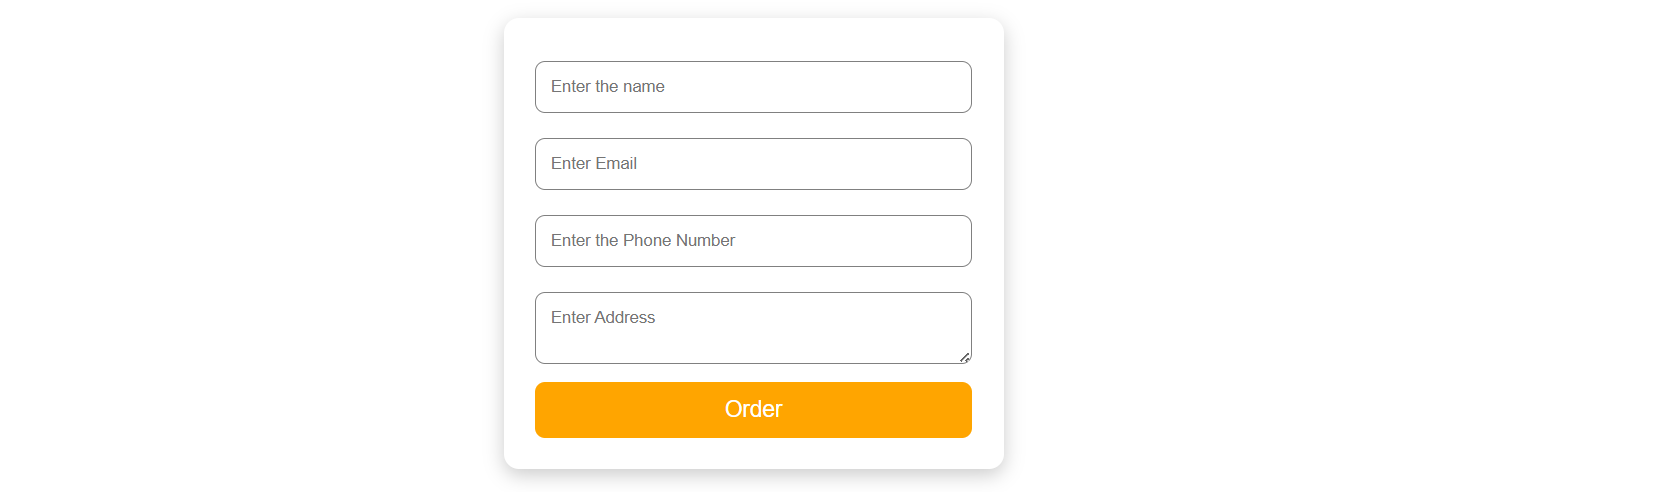
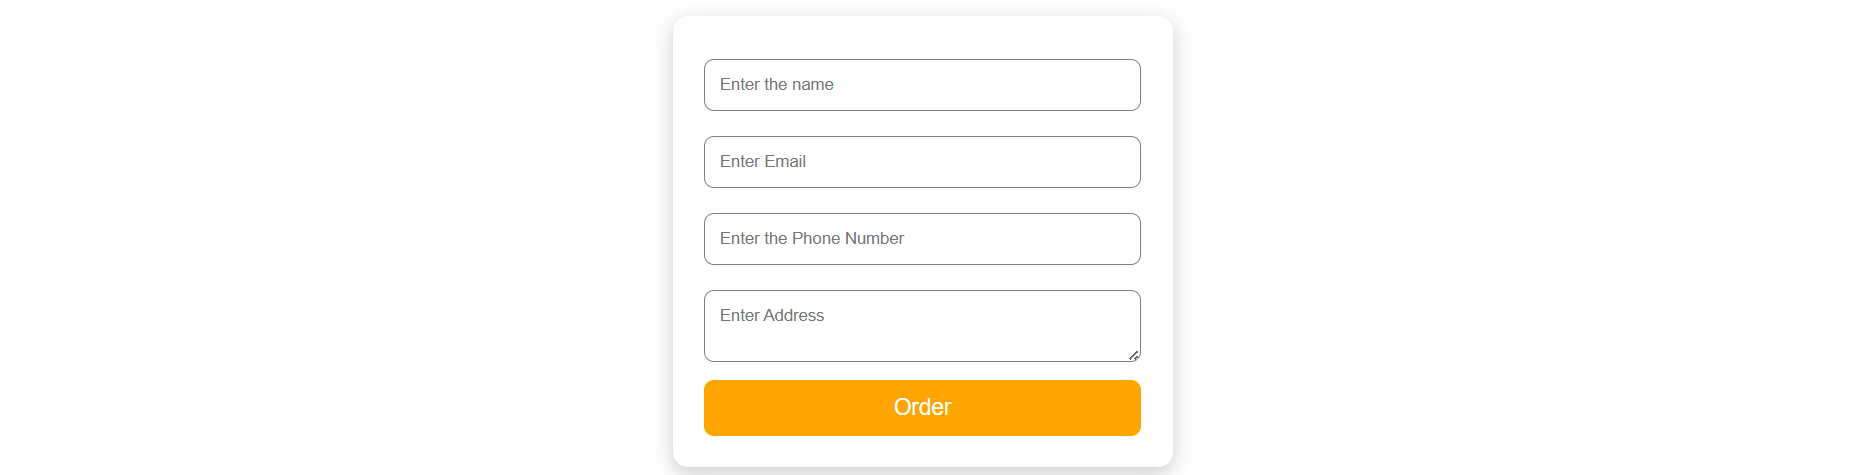
image added

diff --git a/README.md b/README.md
@@ -37,7 +37,7 @@ Cartify is a responsive e-commerce web application built using React.js where us
 ![Products](./screenshots/Productpage.png)
 
 ## Product Detail Page
-![Product Detail](./screenshots/Productdetail.png)
+![Product Detail](./screenshots/Productdetails.png)
 
 ## Billing Page
 ![Billing](./screenshots/Billing.png)
